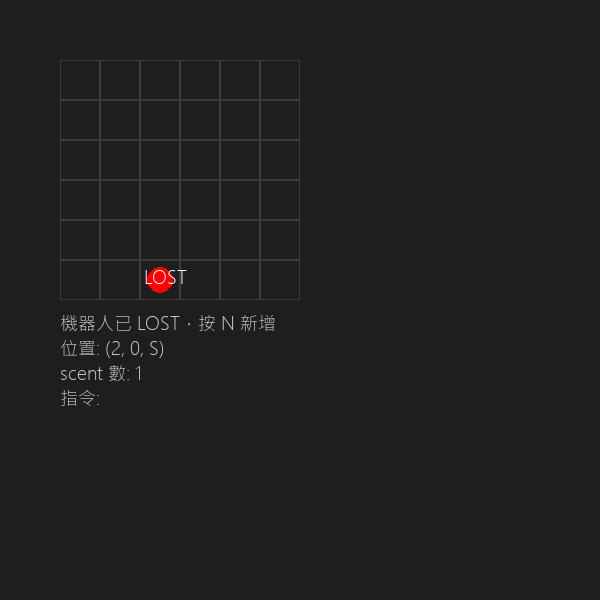
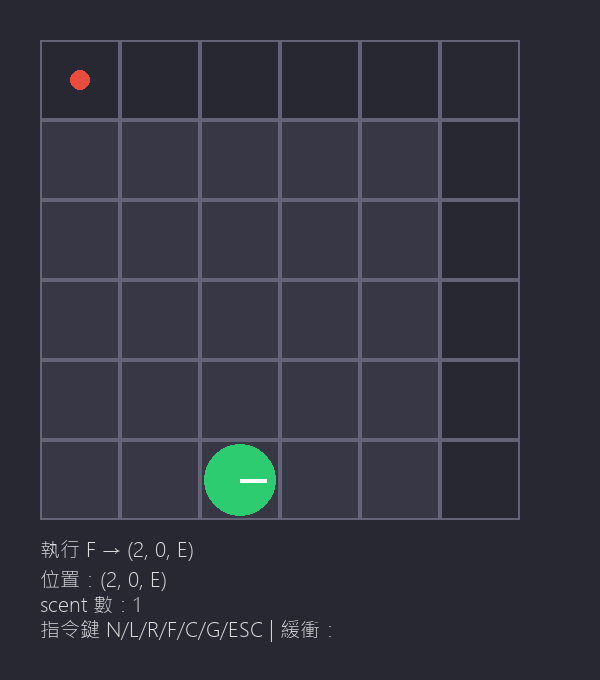
fix: 改善 robot_game.py 畫面顯示（格子放大、顏色對比提升、字型容錯、PIL 延遲匯入）

diff --git a/weeks/week-03/solutions/1112405041/robot_game.py b/weeks/week-03/solutions/1112405041/robot_game.py
@@ -1,18 +1,15 @@
 import pygame
 import sys
 import os
-import io
-from PIL import Image
+import math
 sys.path.insert(0, os.path.dirname(__file__))
 from robot_core import Robot, RobotWorld, DIR_ORDER
 
-CELL = 40
-MARGIN = 60
-INFO_H = 120
+CELL = 80
+MARGIN = 40
 W = 600
-H = 600
+H = 680
 
-pygame.init()
 FONT = None
 SMALL_FONT = None
 
@@ -20,21 +17,27 @@ SMALL_FONT = None
 def get_font():
     global FONT, SMALL_FONT
     if FONT is None:
-        name = "microsoftjhenghei"
-        if name not in pygame.font.get_fonts():
-            name = "mingliu"
-        FONT = pygame.font.SysFont(name, 24)
-        SMALL_FONT = pygame.font.SysFont(name, 18)
+        names = ["microsoftjhenghei", "mingliu", "notosanscjk", "notosanscjkjp", "simhei", "simsun", None]
+        for name in names:
+            if name is None or name in pygame.font.get_fonts():
+                break
+        try:
+            FONT = pygame.font.SysFont(name, 28)
+            SMALL_FONT = pygame.font.SysFont(name, 20)
+        except:
+            FONT = pygame.font.Font(None, 28)
+            SMALL_FONT = pygame.font.Font(None, 20)
     return FONT, SMALL_FONT
 
 
 COLORS = {
-    "bg": (30, 30, 30),
-    "grid": (60, 60, 60),
+    "bg": (40, 40, 50),
+    "grid": (100, 100, 120),
+    "cell_bg": (55, 55, 70),
     "robot": (46, 204, 113),
     "scent": (231, 76, 60),
-    "text": (200, 200, 200),
-    "lost": (255, 0, 0),
+    "text": (220, 220, 220),
+    "lost": (255, 80, 80),
     "button": (52, 152, 219),
 }
 
@@ -75,76 +78,86 @@ class RobotGame:
         self.msg = "scent 已清除"
 
     def export_gif(self, screen, out="assets/replay.gif"):
+        try:
+            from PIL import Image
+        except ImportError:
+            self.msg = "匯出 GIF 需要 Pillow 套件：pip install Pillow"
+            return
         if len(self.replay_steps) < 1:
             self.msg = "沒有步驟可匯出"
             return
-        frames = []
-        replay = RobotGame(self.world_w, self.world_h)
-        replay.new_robot()
-        replay.robot.x = self.replay_steps[0][0]
-        replay.robot.y = self.replay_steps[0][1]
-        replay.robot.dir = self.replay_steps[0][2]
-        replay.replay_steps = []
-        buf = pygame.Surface((W, H))
-        replay.draw(buf)
-        frames.append(Image.frombytes("RGB", (W, H), pygame.image.tobytes(buf, "RGB")))
-        for sx, sy, sdir, cmd in self.replay_steps:
-            if replay.robot.lost:
-                break
-            replay.robot.x, replay.robot.y, replay.robot.dir = sx, sy, sdir
-            replay.run_cmd(cmd)
+        try:
+            frames = []
+            replay = RobotGame(self.world_w, self.world_h)
+            replay.new_robot()
+            replay.robot.x = self.replay_steps[0][0]
+            replay.robot.y = self.replay_steps[0][1]
+            replay.robot.dir = self.replay_steps[0][2]
+            replay.replay_steps = []
+            buf = pygame.Surface((W, H))
             replay.draw(buf)
             frames.append(Image.frombytes("RGB", (W, H), pygame.image.tobytes(buf, "RGB")))
-        out_path = os.path.join(os.path.dirname(__file__), out)
-        os.makedirs(os.path.dirname(out_path), exist_ok=True)
-        frames[0].save(out_path, save_all=True, append_images=frames[1:], duration=300, loop=0)
-        self.msg = f"replay.gif 已存檔"
+            for sx, sy, sdir, cmd in self.replay_steps:
+                if replay.robot.lost:
+                    break
+                replay.robot.x, replay.robot.y, replay.robot.dir = sx, sy, sdir
+                replay.run_cmd(cmd)
+                replay.draw(buf)
+                frames.append(Image.frombytes("RGB", (W, H), pygame.image.tobytes(buf, "RGB")))
+            out_path = os.path.join(os.path.dirname(__file__), out)
+            os.makedirs(os.path.dirname(out_path), exist_ok=True)
+            frames[0].save(out_path, save_all=True, append_images=frames[1:], duration=300, loop=0)
+            self.msg = "replay.gif 已存檔"
+        except Exception as e:
+            self.msg = f"GIF 匯出失敗：{e}"
 
     def draw(self, screen):
         font, sfont = get_font()
         screen.fill(COLORS["bg"])
         ox, oy = MARGIN, MARGIN
-        for x in range(self.world_w + 1):
-            for y in range(self.world_h + 1):
+        cell_count = self.world_w + 1
+        for x in range(cell_count):
+            for y in range(cell_count):
                 rx = ox + x * CELL
                 ry = oy + (self.world_h - y) * CELL
                 rect = pygame.Rect(rx, ry, CELL, CELL)
-                pygame.draw.rect(screen, COLORS["grid"], rect, 1)
-                if (x, y, "N") in self.world.scents or \
-                   (x, y, "E") in self.world.scents or \
-                   (x, y, "S") in self.world.scents or \
-                   (x, y, "W") in self.world.scents:
-                    pygame.draw.circle(screen, COLORS["scent"],
-                                       (rx + CELL // 2, ry + CELL // 2), 6)
-        if self.robot and not self.robot.lost:
+                if x < cell_count - 1 and y < cell_count - 1:
+                    pygame.draw.rect(screen, COLORS["cell_bg"], rect)
+                pygame.draw.rect(screen, COLORS["grid"], rect, 2)
+                for d in ("N", "E", "S", "W"):
+                    if (x, y, d) in self.world.scents:
+                        pygame.draw.circle(screen, COLORS["scent"],
+                                           (rx + CELL // 2, ry + CELL // 2), 10)
+                        break
+        if self.robot:
             rx = ox + self.robot.x * CELL
             ry = oy + (self.world_h - self.robot.y) * CELL
             cx, cy = rx + CELL // 2, ry + CELL // 2
-            pygame.draw.circle(screen, COLORS["robot"], (cx, cy), CELL // 3)
-            dir_idx = DIR_ORDER.index(self.robot.dir)
-            angle = 90 - dir_idx * 90
-            import math
-            ex = cx + int(math.cos(math.radians(angle)) * CELL // 3)
-            ey = cy - int(math.sin(math.radians(angle)) * CELL // 3)
-            pygame.draw.line(screen, (255, 255, 255), (cx, cy), (ex, ey), 3)
-        elif self.robot and self.robot.lost:
-            rx = ox + self.robot.x * CELL
-            ry = oy + (self.world_h - self.robot.y) * CELL
-            pygame.draw.circle(screen, COLORS["lost"], (rx + CELL // 2, ry + CELL // 2), CELL // 3)
-            txt = sfont.render("LOST", True, (255, 255, 255))
-            screen.blit(txt, (rx + 4, ry + 4))
-        info_y = oy + (self.world_h + 1) * CELL + 10
+            if self.robot.lost:
+                pygame.draw.circle(screen, COLORS["lost"], (cx, cy), CELL // 2 - 4)
+                txt = sfont.render("LOST", True, (255, 255, 255))
+                screen.blit(txt, (rx + 8, ry + 8))
+            else:
+                pygame.draw.circle(screen, COLORS["robot"], (cx, cy), CELL // 2 - 4)
+                dir_idx = DIR_ORDER.index(self.robot.dir)
+                angle = 90 - dir_idx * 90
+                ex = cx + int(math.cos(math.radians(angle)) * CELL // 3)
+                ey = cy - int(math.sin(math.radians(angle)) * CELL // 3)
+                pygame.draw.line(screen, (255, 255, 255), (cx, cy), (ex, ey), 4)
+        info_y = oy + (self.world_h + 1) * CELL + 15
         txt = sfont.render(self.msg, True, COLORS["text"])
         screen.blit(txt, (ox, info_y))
         if self.robot:
-            state = sfont.render(f"位置: ({self.robot.x}, {self.robot.y}, {self.robot.dir})", True, COLORS["text"])
-            screen.blit(state, (ox, info_y + 25))
-            sc = sfont.render(f"scent 數: {len(self.world.scents)}", True, COLORS["text"])
-            screen.blit(sc, (ox, info_y + 50))
-        txt = sfont.render("指令: " + self.cmd_buffer, True, COLORS["text"])
-        screen.blit(txt, (ox, info_y + 75))
+            state = sfont.render(f"位置：({self.robot.x}, {self.robot.y}, {self.robot.dir})", True, COLORS["text"])
+            screen.blit(state, (ox, info_y + 30))
+            sc = sfont.render(f"scent 數：{len(self.world.scents)}", True, COLORS["text"])
+            screen.blit(sc, (ox, info_y + 55))
+        txt = sfont.render(f"指令鍵 N/L/R/F/C/G/ESC | 緩衝：{self.cmd_buffer}", True, COLORS["text"])
+        screen.blit(txt, (ox, info_y + 80))
 
     def run(self):
+        pygame.init()
+        pygame.font.init()
         screen = pygame.display.set_mode((W, H))
         pygame.display.set_caption("Robot Lost")
         clock = pygame.time.Clock()
@@ -169,11 +182,14 @@ class RobotGame:
                         self.run_cmd("F")
                     elif event.key == pygame.K_g:
                         self.export_gif(screen)
-            self.draw(screen)
-            pygame.display.flip()
+            try:
+                self.draw(screen)
+                pygame.display.flip()
+            except Exception as e:
+                print(f"繪圖錯誤：{e}")
             clock.tick(30)
 
 
 if __name__ == "__main__":
-    game = RobotGame(5, 5)
-    game.run()
+    g = RobotGame(5, 5)
+    g.run()

diff --git a/weeks/week-03/solutions/1112405041/gen_screenshot.py b/weeks/week-03/solutions/1112405041/gen_screenshot.py
@@ -3,15 +3,18 @@ os.environ["SDL_VIDEODRIVER"] = "dummy"
 import pygame
 import sys
 sys.path.insert(0, os.path.dirname(__file__))
-from robot_game import RobotGame
+from robot_game import RobotGame, W, H
 
 pygame.init()
 pygame.font.init()
-screen = pygame.display.set_mode((600, 600))
+screen = pygame.display.set_mode((W, H))
 
 game = RobotGame(5, 5)
 game.new_robot()
-for cmd in ["R", "F", "F", "R", "F", "L", "F"]:
+for cmd in ["F", "F", "F", "F", "F", "F"]:
+    game.run_cmd(cmd)
+game.new_robot()
+for cmd in ["R", "F", "F"]:
     game.run_cmd(cmd)
 game.draw(screen)
 out = os.path.join(os.path.dirname(__file__), "assets", "gameplay.png")
